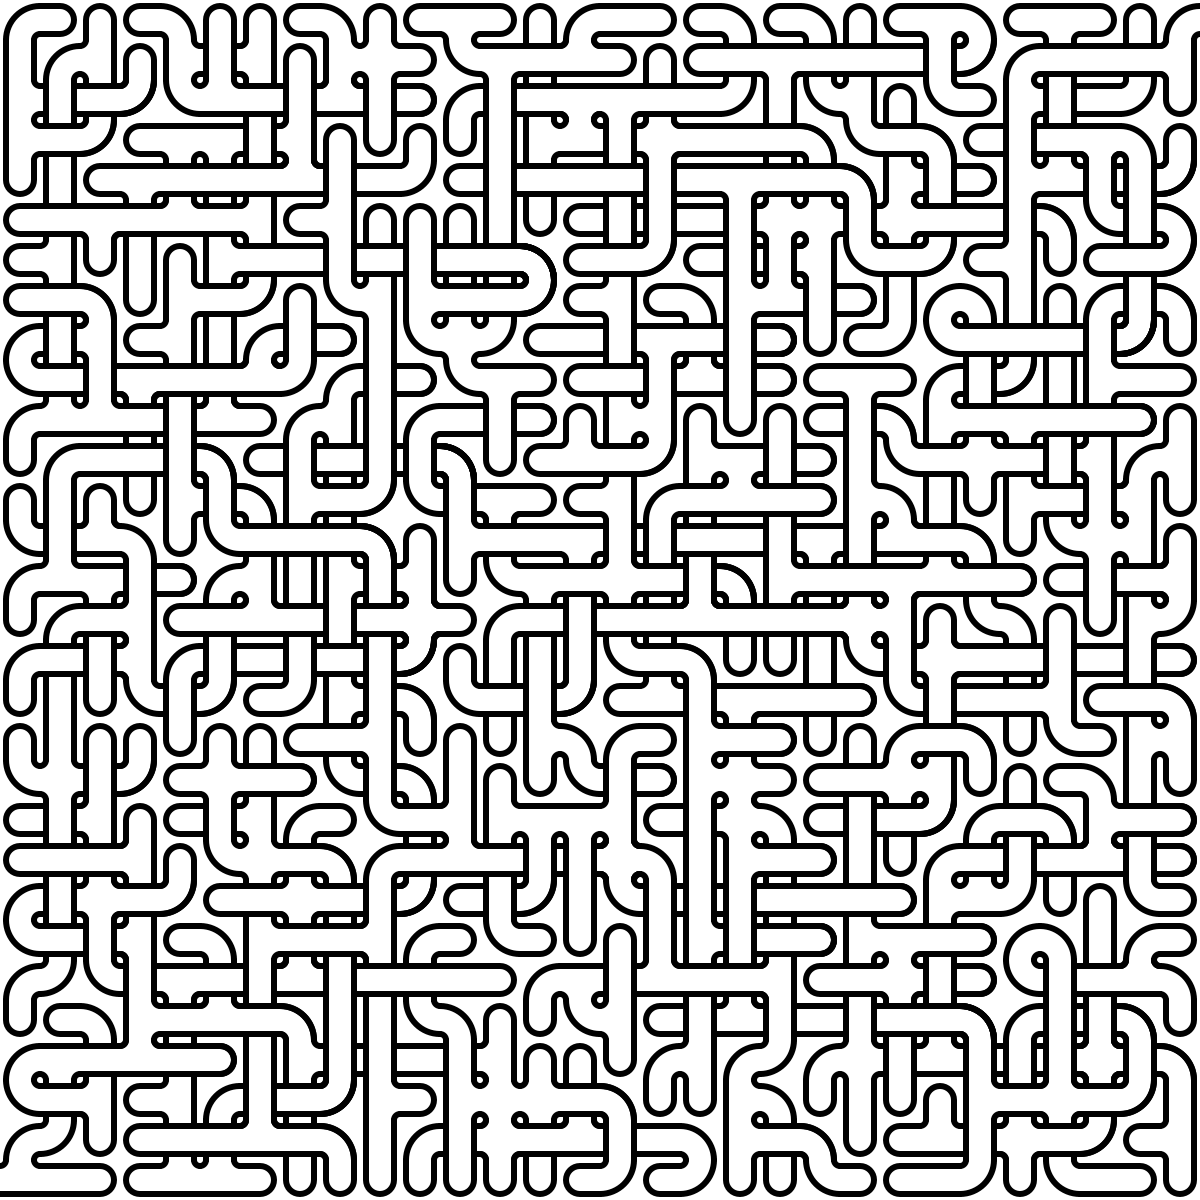
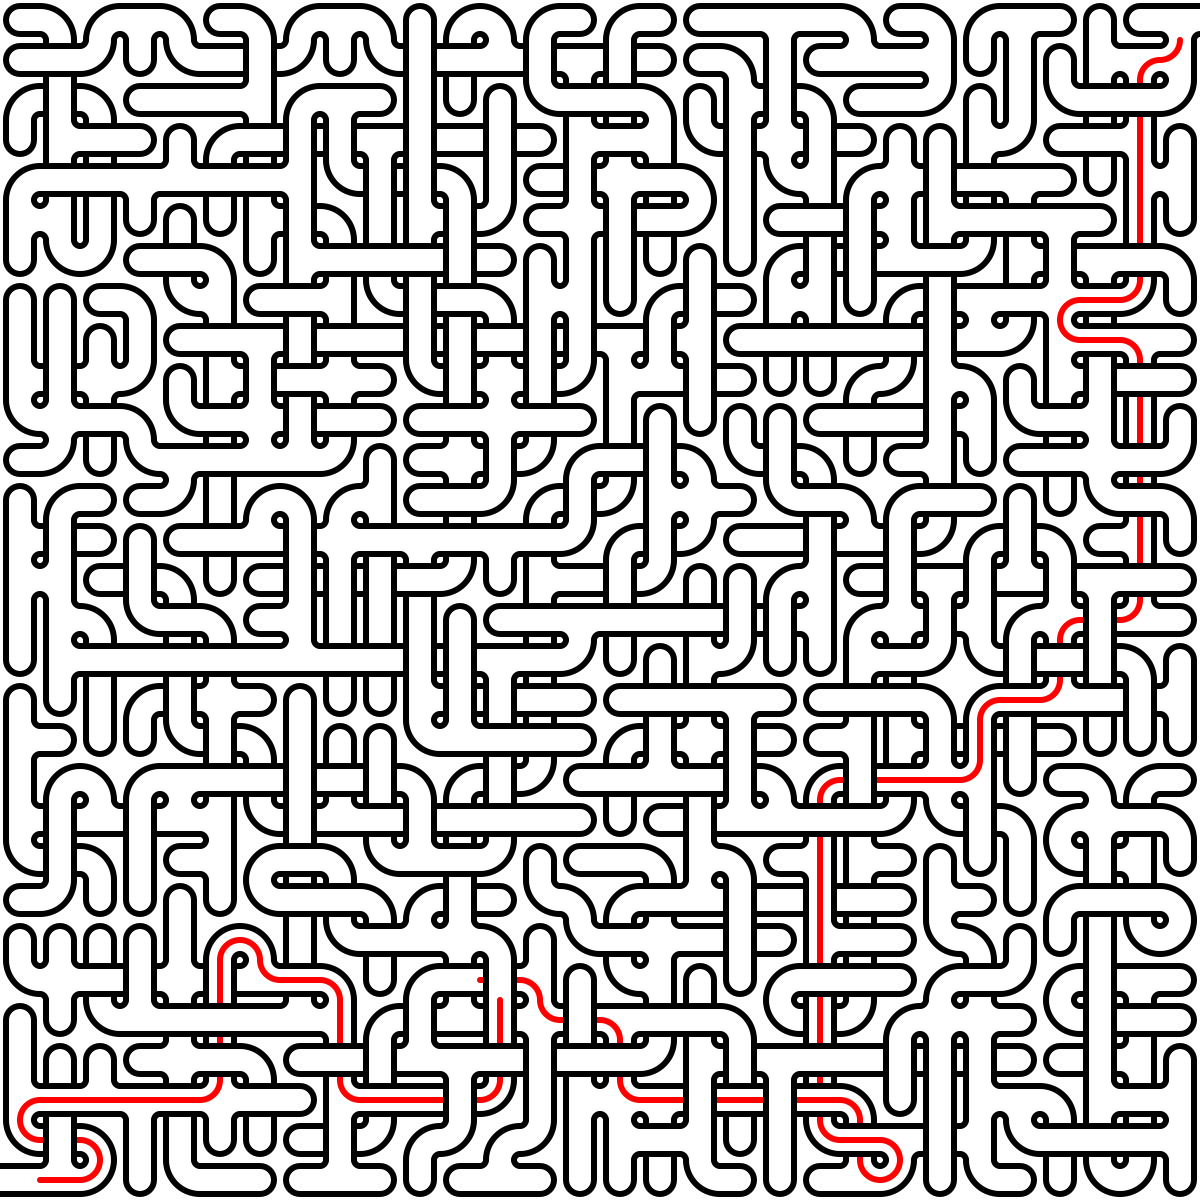
update

diff --git a/src/maze-renderer.ts b/src/maze-renderer.ts
@@ -1,6 +1,6 @@
 import sharp from 'sharp';
 import { Maze } from '@/Maze';
-import { createCanvas } from 'canvas';
+import { CanvasRenderingContext2D, createCanvas } from 'canvas';
 
 const TILE_SIZE = 40;
 const HALF_TILE_SIZE = TILE_SIZE >> 1;
@@ -10,21 +10,88 @@ const BLACK = 0;
 const THICKNESS_FRAC = 0.15;
 const WALL_FRAC = 0.15;
 
-export async function saveImage(maze: Maze, filename: string) {
-
-    const width = TILE_SIZE * maze.width;
-    const height = TILE_SIZE * maze.height;
+function renderCurvedSolution(c: CanvasRenderingContext2D, maze: Maze) {
 
     const d0 = WALL_FRAC * TILE_SIZE;
     const d1 = (1 - WALL_FRAC) * TILE_SIZE;
     const dm = TILE_SIZE / 2;
     const r0 = (d1 - d0) / 2;
 
-    const canvas = createCanvas(width, height);
-    const c = canvas.getContext('2d');
+    c.strokeStyle = 'red';
+    c.lineWidth = THICKNESS_FRAC * TILE_SIZE;
+    c.lineCap = 'round';
 
-    c.fillStyle = 'white';
-    c.fillRect(0, 0, width, height);
+    for (let i = maze.height - 1; i >= 0; --i) {
+        const oy = i * TILE_SIZE;
+        for (let j = maze.width - 1; j >= 0; --j) {
+            const ox = j * TILE_SIZE;
+            const tile = maze.tiles[i][j];
+
+            c.beginPath();
+
+            if (tile.upper.north2) {
+                c.moveTo(ox + dm, oy);
+                c.lineTo(ox + dm, oy + TILE_SIZE);
+            } else if (tile.upper.east2) {
+                c.moveTo(ox, oy + dm);
+                c.lineTo(ox + TILE_SIZE, oy + dm);
+            }
+
+            if (tile.upper.north && tile.lower.east2) {
+                c.moveTo(ox, oy + dm);
+                c.lineTo(ox + d0, oy + dm);
+                c.moveTo(ox + d1, oy + dm);
+                c.lineTo(ox + TILE_SIZE, oy + dm);
+            } else if (tile.upper.east && tile.lower.north2) {
+                c.moveTo(ox + dm, oy);
+                c.lineTo(ox + dm, oy + d0);
+                c.moveTo(ox + dm, oy + d1);
+                c.lineTo(ox + dm, oy + TILE_SIZE);
+            } else {
+                const lower = tile.lower;
+                const value = (lower.north2 ? 0b1000 : 0) | (lower.east2 ? 0b0100 : 0) | (lower.south2 ? 0b0010 : 0)
+                    | (lower.west2 ? 0b0001 : 0);
+
+                switch (value) {
+                    case 0b1100:
+                        c.moveTo(ox + dm, oy);
+                        c.arcTo(ox + dm, oy + dm, ox + TILE_SIZE, oy + dm, dm);
+                        break;
+                    case 0b0110:
+                        c.moveTo(ox + TILE_SIZE, oy + dm);
+                        c.arcTo(ox + dm, oy + dm, ox + dm, oy + TILE_SIZE, dm);
+                        break;
+                    case 0b0011:
+                        c.moveTo(ox + dm, oy + TILE_SIZE);
+                        c.arcTo(ox + dm, oy + dm, ox, oy + dm, dm);
+                        break;
+                    case 0b1001:
+                        c.moveTo(ox, oy + dm);
+                        c.arcTo(ox + dm, oy + dm, ox + dm, oy, dm);
+                        break;
+
+                    case 0b1010:
+                        c.moveTo(ox + dm, oy);
+                        c.lineTo(ox + dm, oy + TILE_SIZE);
+                        break;
+                    case 0b0101:
+                        c.moveTo(ox, oy + dm);
+                        c.lineTo(ox + TILE_SIZE, oy + dm);
+                        break;
+                }
+            }
+
+            c.stroke();
+        }
+    }
+}
+
+function renderCurvedMaze(c: CanvasRenderingContext2D, maze: Maze) {
+
+    const d0 = WALL_FRAC * TILE_SIZE;
+    const d1 = (1 - WALL_FRAC) * TILE_SIZE;
+    const dm = TILE_SIZE / 2;
+    const r0 = (d1 - d0) / 2;
 
     c.strokeStyle = 'black';
     c.lineWidth = THICKNESS_FRAC * TILE_SIZE;
@@ -35,6 +102,8 @@ export async function saveImage(maze: Maze, filename: string) {
         for (let j = maze.width - 1; j >= 0; --j) {
             const ox = j * TILE_SIZE;
             const tile = maze.tiles[i][j];
+
+            c.beginPath();
 
             if (tile.upper.north) {
                 c.moveTo(ox + d0, oy);
@@ -67,7 +136,6 @@ export async function saveImage(maze: Maze, filename: string) {
                 const value = (lower.north ? 0b1000 : 0) | (lower.east ? 0b0100 : 0) | (lower.south ? 0b0010 : 0)
                     | (lower.west ? 0b0001 : 0);
 
-                c.beginPath();
                 switch (value) {
                     case 0b1000:
                         c.moveTo(ox + d0, oy);
@@ -185,6 +253,23 @@ export async function saveImage(maze: Maze, filename: string) {
             c.stroke();
         }
     }
+}
+
+export async function saveImage(maze: Maze, filename: string) {
+
+    const width = TILE_SIZE * maze.width;
+    const height = TILE_SIZE * maze.height;
+
+    const canvas = createCanvas(width, height);
+    const c = canvas.getContext('2d');
+
+    c.fillStyle = 'white';
+    c.fillRect(0, 0, width, height);
+
+    if (maze.solved) {
+        renderCurvedSolution(c, maze);
+    }
+    renderCurvedMaze(c, maze);
 
     await sharp(canvas.toBuffer('image/png')).toFile(filename);
 }

diff --git a/src/maze-solver.ts b/src/maze-solver.ts
@@ -14,15 +14,19 @@ function reconstructPath(maze: Maze) {
         switch (node.visitedBy) {
             case node.north:
                 node.north2 = node.visitedBy;
+                node.visitedBy.south2 = node;
                 break;
             case node.east:
                 node.east2 = node.visitedBy;
+                node.visitedBy.west2 = node;
                 break;
             case node.south:
                 node.south2 = node.visitedBy;
+                node.visitedBy.north2 = node;
                 break;
             case node.west:
                 node.west2 = node.visitedBy;
+                node.visitedBy.east2 = node;
                 break;
         }
         node = node.visitedBy;
